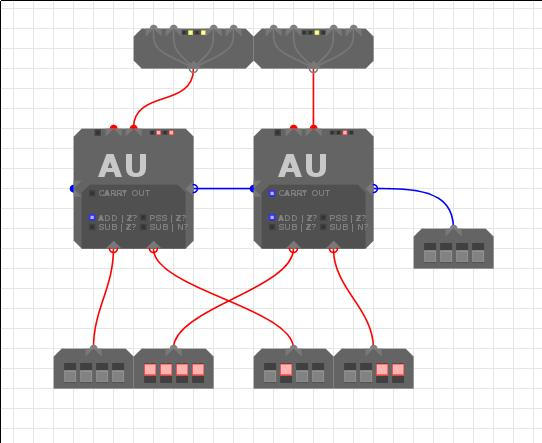
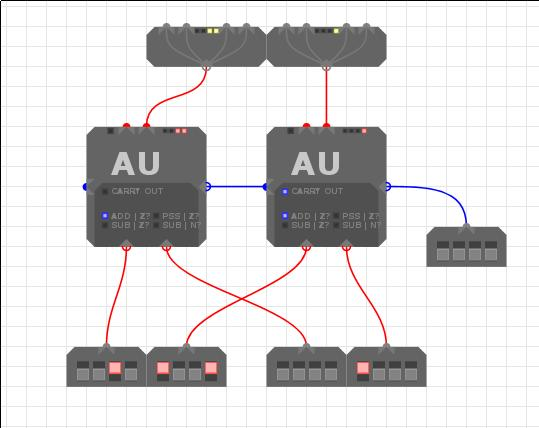
add images to modulesim notes

Changed region(s): [[0.0891, 0.0304, 0.9499, 0.9112], [0.4453, 0.1215, 0.5343, 0.1822]]

diff --git a/_site/notes/modulesim/index.html b/_site/notes/modulesim/index.html
@@ -94,7 +94,14 @@
 </tr>
 </tbody></table>
 
-<h2 id="toc_1">Using the 4 pins as inputs</h2>
+<h2 id="toc_1">Merge (4 inputs)</h2>
+
+<p><img src="img/merge.jpg" alt="Example merge image"></p>
+
+<p>This example seems to demonstrate an error in the merge code. Decompiling 
+yields some rather strange code that updates the outputs. Perhaps this is
+undefined behaviour!? This is the problem of not having any official
+documentation.</p>
 
 <p>This is quite simple. Each of the 4 inputs represents a bit of a 4 bit word. A
 is the LSB and D the MSB. The 4 bit word is constructed in output A.</p>
@@ -102,7 +109,9 @@ is the LSB and D the MSB. The 4 bit word is constructed in output A.</p>
 <p>Output B will only produce a word of the form <code>xxDC</code> or <code>xxC2C1</code> where <code>D</code> is the LSB of
 input D; the same goes for input C.</p>
 
-<h2 id="toc_2">Using the 4 pins as outputs</h2>
+<h2 id="toc_2">Split (4 outputs)</h2>
+
+<p><img src="img/split.jpg" alt="Example split image"></p>
 
 <p>Port A splits out each bit to the LSB of the output in order (A from port A -&gt; LSB of output
 A), however it is not quite this simple as on output A and C the 2nd and 4th
@@ -113,9 +122,13 @@ explanation is crap.</p>
 
 <h1 id="toc_3">4 Way Fanout</h1>
 
+<p><img src="img/fanout.jpg" alt="Example 4 way fanout image"></p>
+
 <p>Takes an input and repeats it to four outputs</p>
 
 <h1 id="toc_4">REG - Register</h1>
+
+<p><img src="img/reg.jpg" alt="Example register image"></p>
 
 <p>These store their inputs when enabled, and constantly output whatever is stored
 in them. The control input takes the following form:</p>
@@ -146,10 +159,14 @@ in them. The control input takes the following form:</p>
 
 <h1 id="toc_5">CLK - Clock</h1>
 
+<p><img src="img/clock.jpg" alt="Example clock image"></p>
+
 <p>Outputs <code>010x</code> to two outputs where one will be <code>0101</code> and the other <code>0100</code>.
 This is used to alternately enable registers.</p>
 
 <h1 id="toc_6">LSH - Left Shift</h1>
+
+<p><img src="img/left_shift.jpg" alt="Example left shift image"></p>
 
 <p>NOTE: Only the 2 LSBs of <em>control input</em> are handled</p>
 
@@ -159,12 +176,16 @@ it in.</p>
 
 <h1 id="toc_7">RSH - Right Shift</h1>
 
+<p><img src="img/right_shift.jpg" alt="Example right shift image"></p>
+
 <p>NOTE: Only the 2 LSBs of <em>control input</em> are handled</p>
 
 <p>Take the input and shift it right by the number of places in the <em>control
 input</em>. No idea what the chain in and outs do.</p>
 
 <h1 id="toc_8">MUX - Multiplexer</h1>
+
+<p><img src="img/mux.jpg" alt="Example mux image"></p>
 
 <p>The multiplexer takes 4 inputs and selects one of them based on the 2 LSBs of
 the <em>Control in</em>, which is also fed out to <em>Control out</em>.</p>
@@ -195,6 +216,8 @@ the <em>Control in</em>, which is also fed out to <em>Control out</em>.</p>
 
 <h1 id="toc_9">DMX - Demultiplexer</h1>
 
+<p><img src="img/demux.jpg" alt="Example demux image"></p>
+
 <p>The demultiplexer takes an input and then based on the <em>Control input</em> selects
 which output to route it to.</p>
 
@@ -223,6 +246,8 @@ which output to route it to.</p>
 </tbody></table>
 
 <h1 id="toc_10">AU - Arithmetic Unit</h1>
+
+<p><img src="img/au.jpg" alt="Example au image"></p>
 
 <p>Performs arithmetic operations on two inputs.</p>
 
@@ -262,6 +287,8 @@ the two&#39;s complement system.</p>
 overflow has occured so you can chain AUs to handle more than 4 bit numbers.</p>
 
 <h1 id="toc_11">LU - Logic Unit</h1>
+
+<p><img src="img/lu.jpg" alt="Example lu image"></p>
 
 <p>Performs logical operations on two inputs.</p>
 

diff --git a/notes/modulesim/index.md b/notes/modulesim/index.md
@@ -11,13 +11,23 @@ layout: layout
 |------|------|------|------|
 | **xxxD** | **xxDC** | **xxxB** | **xxBA** |
 
-## Using the 4 pins as inputs
+## Merge (4 inputs)
+![Example merge image](img/merge.jpg)
+
+This example seems to demonstrate an error in the merge code. Decompiling 
+yields some rather strange code that updates the outputs. Perhaps this is
+undefined behaviour!? This is the problem of not having any official
+documentation.
+
 This is quite simple. Each of the 4 inputs represents a bit of a 4 bit word. A
 is the LSB and D the MSB. The 4 bit word is constructed in output A.
 
 Output B will only produce a word of the form `xxDC` or `xxC2C1` where `D` is the LSB of
 input D; the same goes for input C.
-## Using the 4 pins as outputs
+
+## Split (4 outputs)
+![Example split image](img/split.jpg)
+
 Port A splits out each bit to the LSB of the output in order (A from port A -> LSB of output
 A), however it is not quite this simple as on output A and C the 2nd and 4th
 bits from port A are also present in the 2nd LSB. so 00BA into Port A yields
@@ -26,9 +36,13 @@ to get at A, or perform a bit of shifting. Refer to the top table if this
 explanation is crap.
 
 # 4 Way Fanout
+![Example 4 way fanout image](img/fanout.jpg)
+
 Takes an input and repeats it to four outputs
 
 # REG - Register
+![Example register image](img/reg.jpg)
+
 These store their inputs when enabled, and constantly output whatever is stored
 in them. The control input takes the following form:
 
@@ -39,10 +53,14 @@ in them. The control input takes the following form:
 | 2   | Enable   | 0 - no change, 1 - read input if clock=1 |
 
 # CLK - Clock
+![Example clock image](img/clock.jpg)
+
 Outputs `010x` to two outputs where one will be `0101` and the other `0100`.
 This is used to alternately enable registers.
 
 # LSH - Left Shift
+![Example left shift image](img/left_shift.jpg)
+
 NOTE: Only the 2 LSBs of *control input* are handled
 
 Take and input and shift it left by the number of places in the *control input*. No
@@ -50,12 +68,16 @@ idea what the chain in and outs do. If you do know, please email me and I'll add
 it in.
 
 # RSH - Right Shift
+![Example right shift image](img/right_shift.jpg)
+
 NOTE: Only the 2 LSBs of *control input* are handled
 
 Take the input and shift it right by the number of places in the *control
 input*. No idea what the chain in and outs do.
 
 # MUX - Multiplexer
+![Example mux image](img/mux.jpg)
+
 The multiplexer takes 4 inputs and selects one of them based on the 2 LSBs of
 the *Control in*, which is also fed out to *Control out*.
 
@@ -67,6 +89,8 @@ the *Control in*, which is also fed out to *Control out*.
 | xx11          | D              |
 
 # DMX - Demultiplexer
+![Example demux image](img/demux.jpg)
+
 The demultiplexer takes an input and then based on the *Control input* selects
 which output to route it to.
 
@@ -78,6 +102,8 @@ which output to route it to.
 | xx11          | D               |
 
 # AU - Arithmetic Unit
+![Example au image](img/au.jpg)
+
 Performs arithmetic operations on two inputs.
 
 | Control Inputs (right input) | Function selected | Comparison selected | 
@@ -94,4 +120,6 @@ The left output is the *Control out* that instructs another chained AU that
 overflow has occured so you can chain AUs to handle more than 4 bit numbers.
 
 # LU - Logic Unit
+![Example lu image](img/lu.jpg)
+
 Performs logical operations on two inputs.
